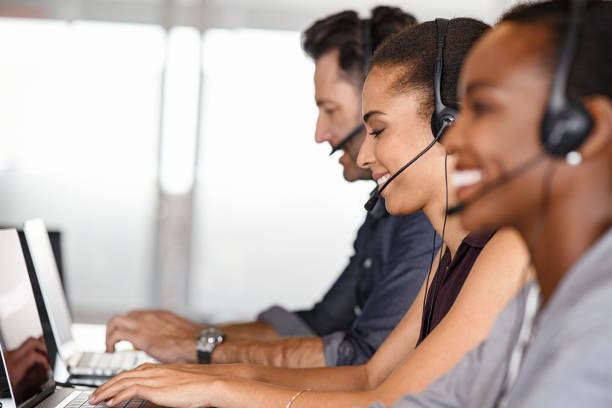
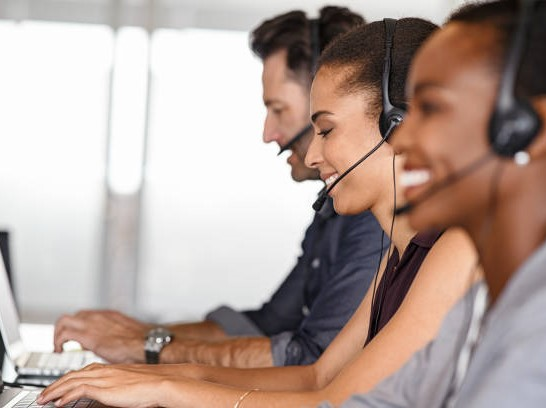
V 1.0.9

diff --git a/css/provide.css b/css/provide.css
@@ -11,7 +11,7 @@ h2 {
 .service-box-provide {
   display: flex;
   align-items: center;
-  gap: 20px;
+  gap: 25px;
   width: 95%;
   height: 140px;
   padding: 0 10px;
@@ -19,20 +19,25 @@ h2 {
   border-radius: 8px;
 }
 
-.service-box-provide .image {
-  flex-basis: 100%;
-}
-
-.service-box-provide .image img {
-  width: 100%;
-  margin: auto;
-}
-
-.service-box-provide .s-info-holder {
+.service-box-provide .image, .service-box-provide .s-info-holder {
+  width: 50%;
   display: flex;
   align-items: flex-start;
   justify-content: center;
   flex-direction: column;
+}
+
+.service-box-provide .image {
+  height: calc(140px - 10px);
+}
+
+.service-box-provide .image img {
+  height: 100%;
+  aspect-ratio: 4/3;
+  margin: auto;
+}
+
+.service-box-provide .s-info-holder {
   gap: 5px;
 }
 

diff --git a/css/explore.css b/css/explore.css
@@ -6,6 +6,7 @@ h2 {
   flex-direction: row-reverse;
   height: 180px;
   padding: 0;
+  gap: 20px;
 }
 
 .provide-single {
@@ -16,6 +17,8 @@ h2 {
   background-color: var(--bg-second);
   padding: 10px;
   border-radius: 10px;
+  margin: auto;
+  width: 95%;
 }
 
 .providor-info {

diff --git a/provided.html b/provided.html
@@ -84,7 +84,7 @@
       <div class="service-box-provide">
         <div class="image">
           <img
-            src="./imgs/provide/content-writing.avif"
+            src="./imgs/provide/content-writing.jpg"
             alt="Content Creation"
           />
         </div>
